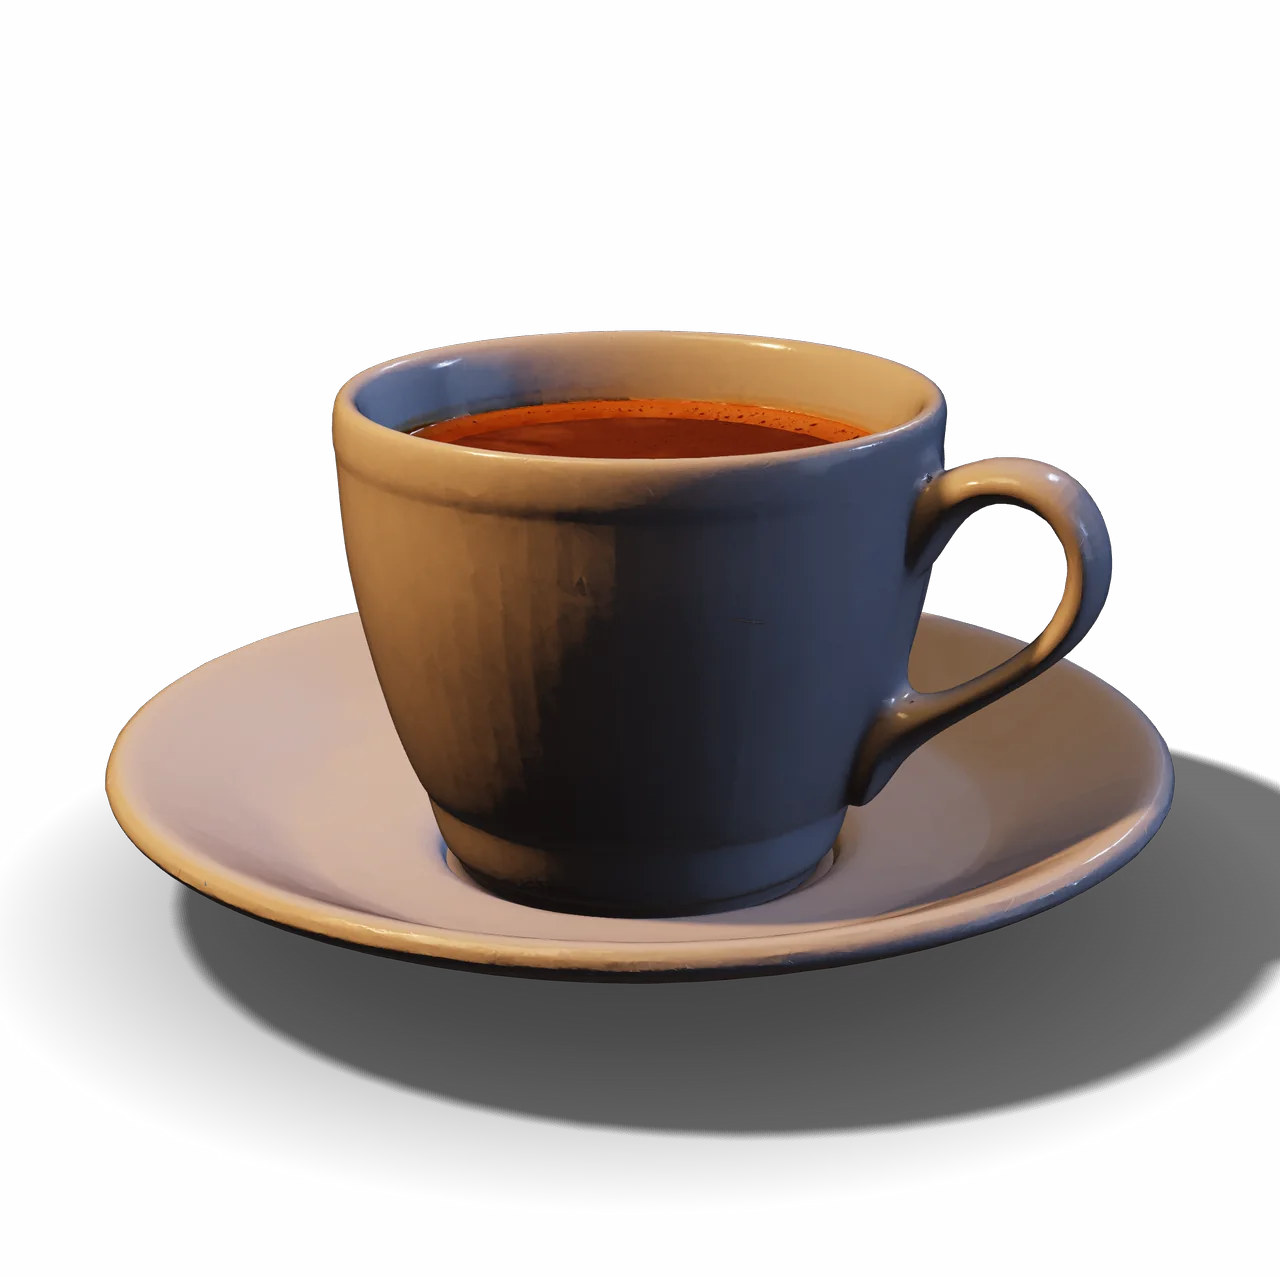
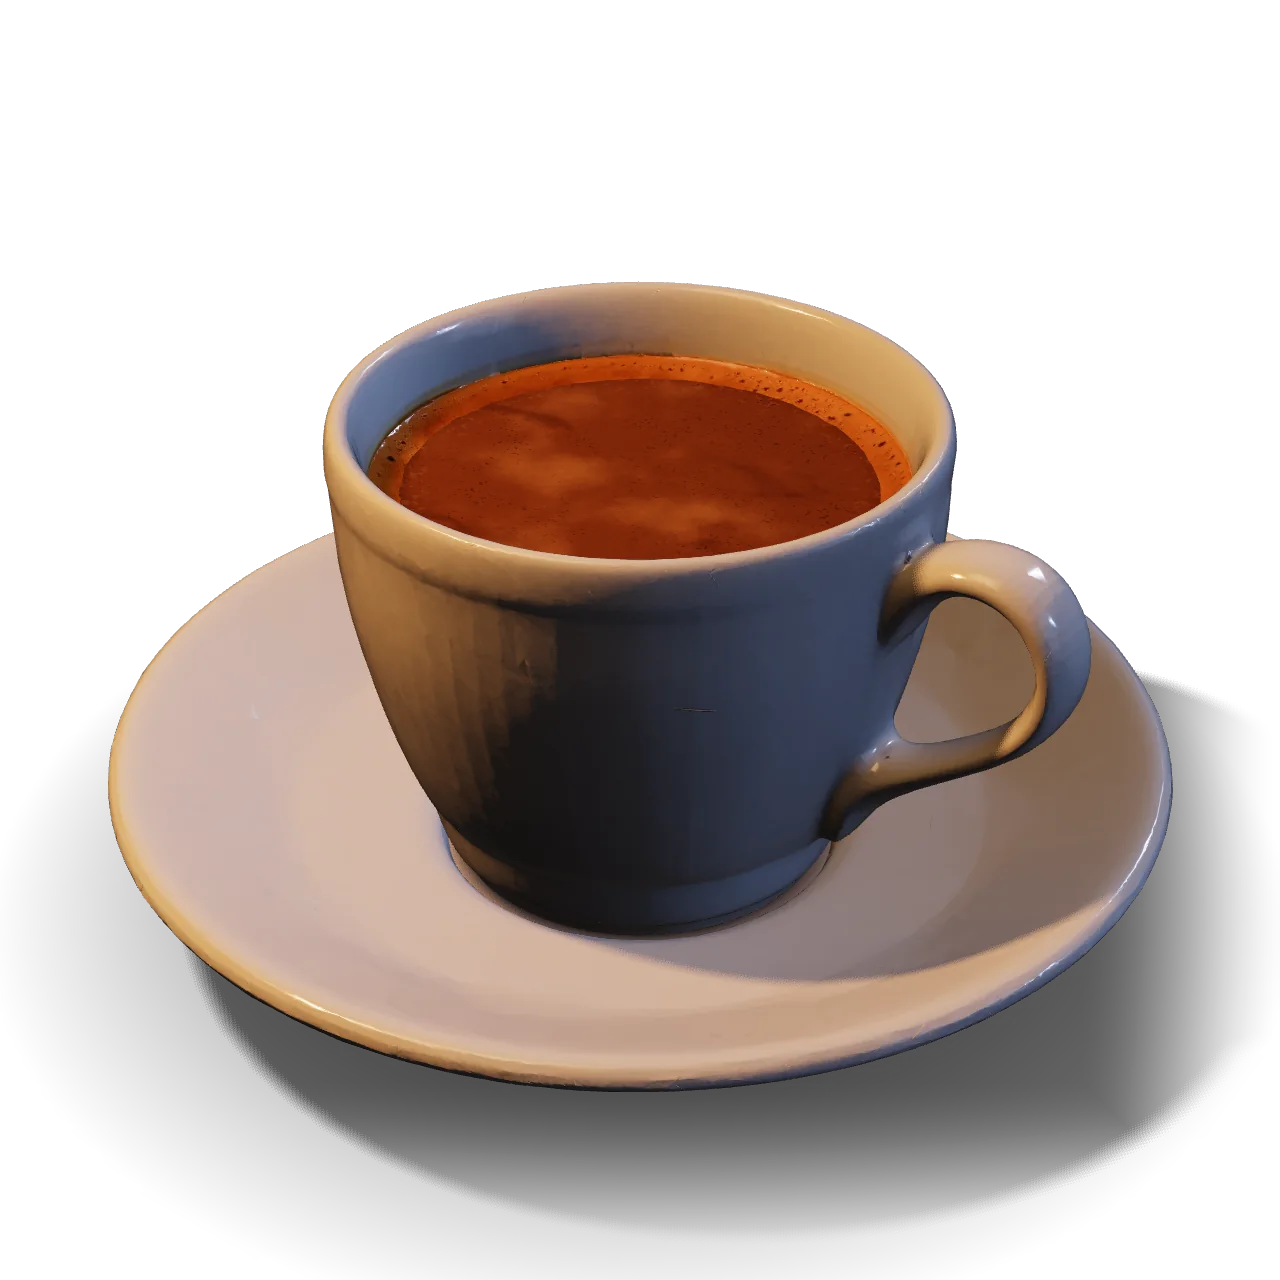
build: render the cup's still in its new rest pose, at 1280 px
- the same pose and espresso the live cup starts in, so the hand-off lands exactly
- web copies at 640 and 1280 px

diff --git a/src/media/manifest.ts b/src/media/manifest.ts
@@ -19,7 +19,7 @@ export const MEDIA = {
   'street-dusk': { kind: 'still', aspect: [43, 24], widths: [640, 1280, 1920, 2560] },
   'rain-window': { kind: 'still', aspect: [43, 24], widths: [640, 1280, 1920, 2560] },
   'crema-macro': { kind: 'still', aspect: [43, 24], widths: [640, 1280, 1920, 2560] },
-  'cup-still': { kind: 'still', aspect: [1, 1], widths: [640, 1280, 1920] },
+  'cup-still': { kind: 'still', aspect: [1, 1], widths: [640, 1280] },
   'steam-loop-poster': { kind: 'still', aspect: [16, 9], widths: [640, 1280, 1920] },
   'steam-loop': { kind: 'loop', aspect: [16, 9], widths: [1920, 1280], poster: 'steam-loop-poster' },
 } as const satisfies Record<string, StillEntry | LoopEntry>
